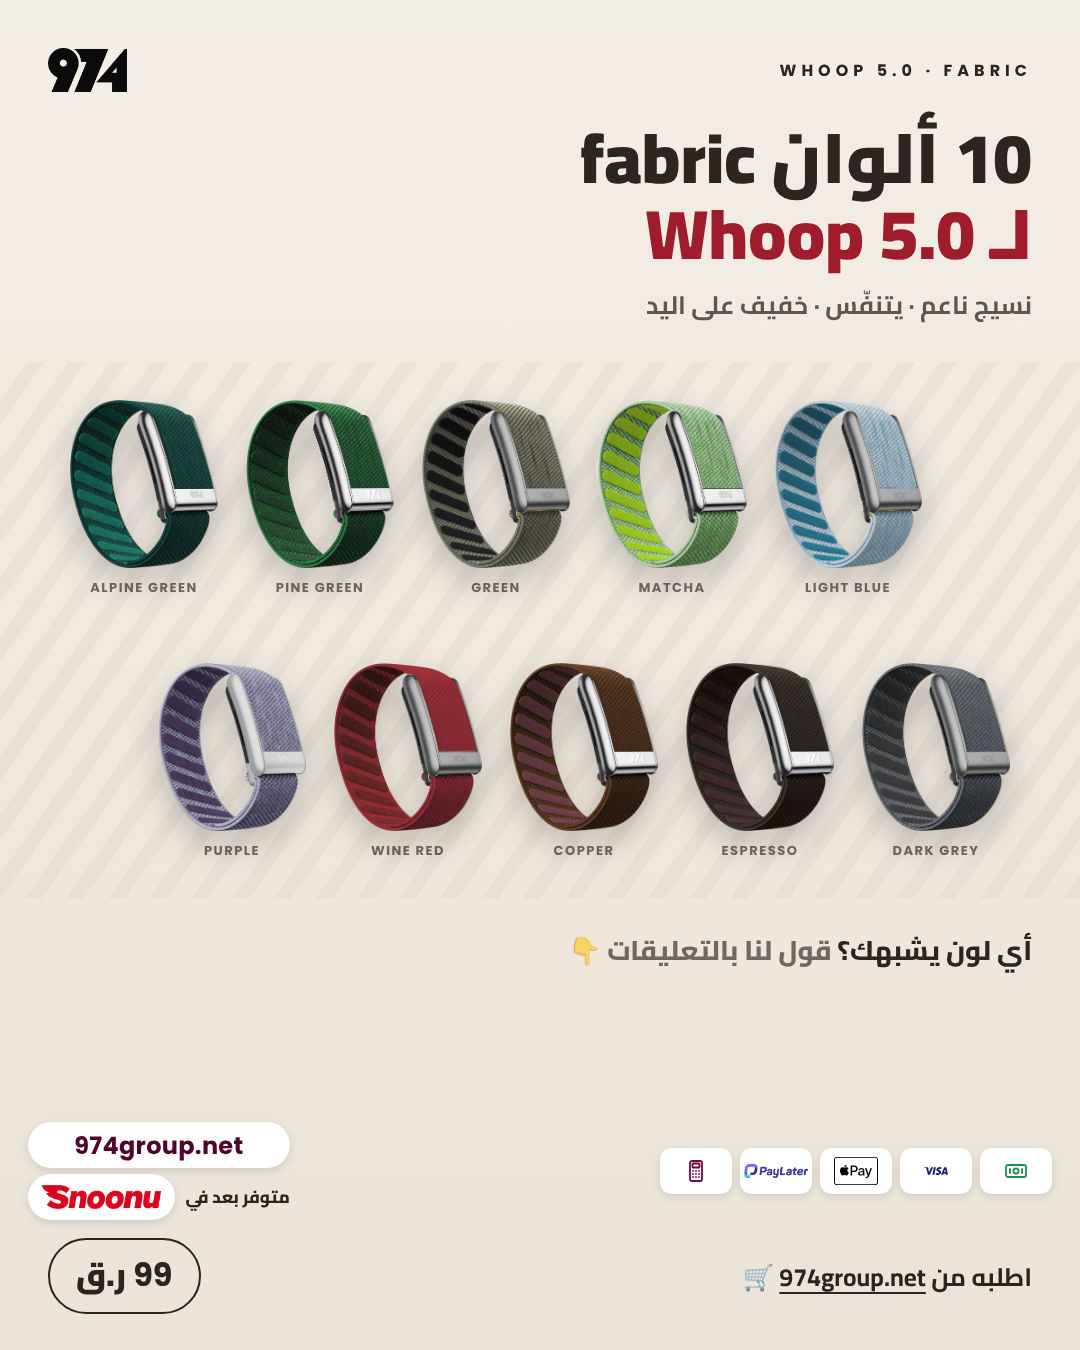
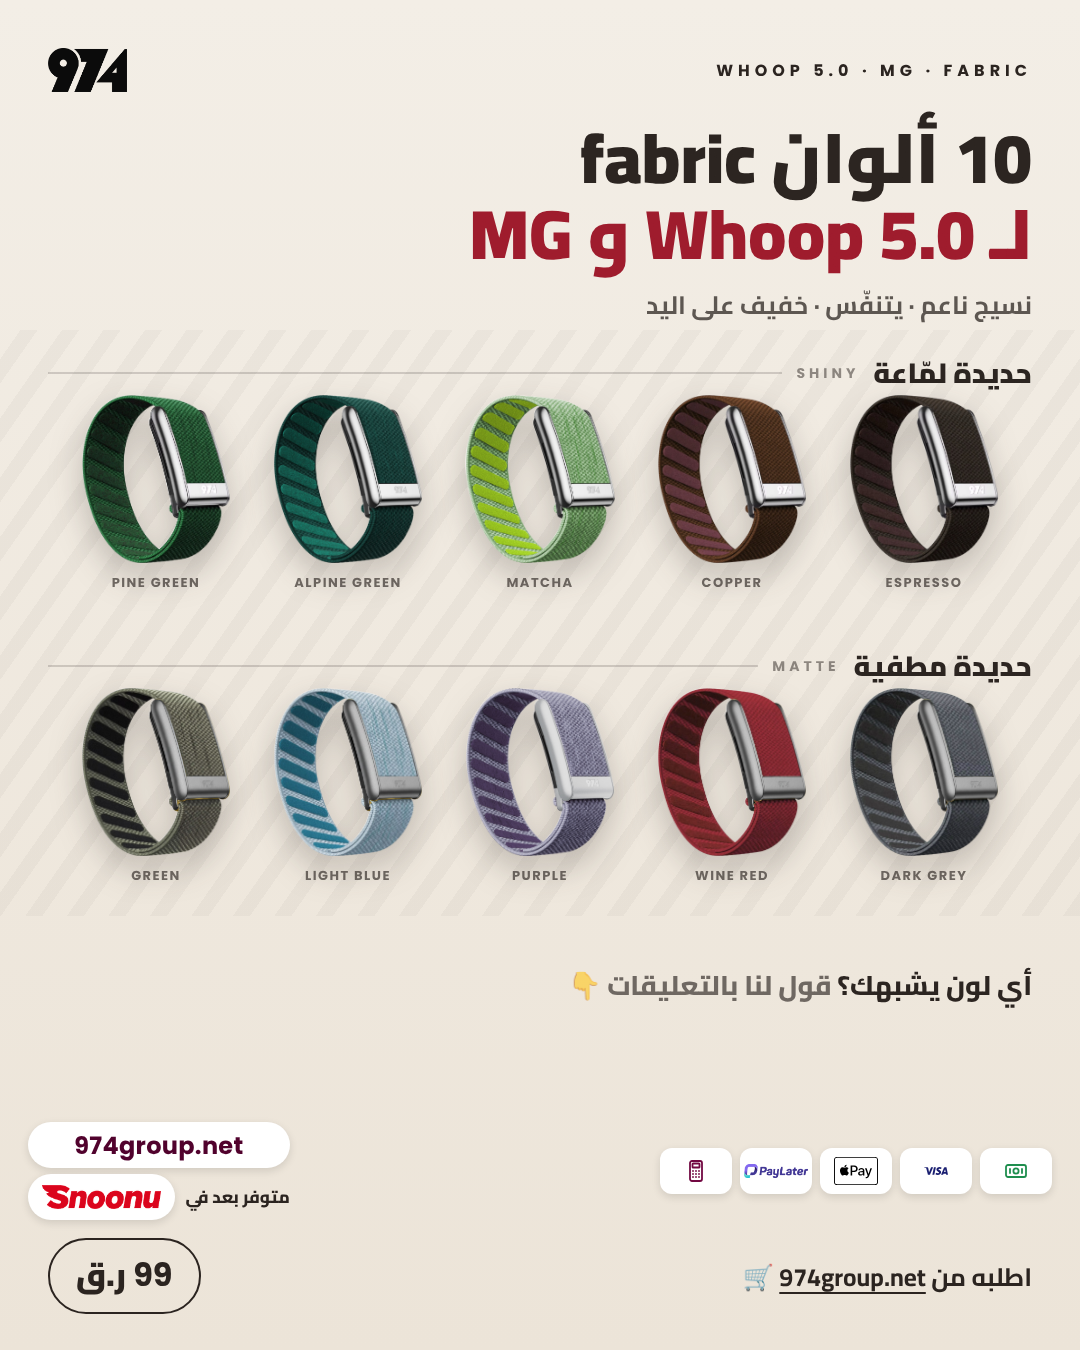
Whoop 5 fabric design: shiny vs matte buckle rows, 5.0 + MG
Claude-Session: https://claude.ai/code/session_01K6HDWNrArsGSJekW1VcEzV

diff --git a/posts/2026-11/best-sellers-3/out/974-w5fabric-story.html b/posts/2026-11/best-sellers-3/out/974-w5fabric-story.html
@@ -31,16 +31,17 @@ body{width:1080px;height:1920px;background:linear-gradient(180deg,#F3EEE6 0%,#EC
 .top{position:absolute;left:48px;right:48px;top:200px;display:flex;justify-content:space-between;align-items:center}
 .top img{height:44px} .bo{display:inline-block;margin-top:14px;font-weight:800;font-size:20px;border:1.5px dashed currentColor;border-radius:30px;padding:2px 16px 4px;opacity:.75} .top span{font-family:Poppins;font-weight:700;font-size:16px;letter-spacing:5px}
 .it{position:absolute;display:flex;flex-direction:column;align-items:center} .it img{filter:drop-shadow(0 14px 16px rgba(43,36,32,.25))}
+.rl{position:absolute;right:48px;left:48px;display:flex;align-items:center;gap:14px;direction:rtl} .rl b{font-weight:900;font-size:28px} .rl span{font-weight:700;font-size:14px;letter-spacing:4px;opacity:.5} .rl:after{content:'';flex:1;height:1.5px;background:rgba(43,36,32,.18)}
 .it i{font-style:normal;font-family:Poppins;font-weight:700;font-size:13px;letter-spacing:1.5px;margin-top:10px;opacity:.65;text-transform:uppercase;white-space:nowrap}</style></head><body>
 
-<div class="abs" style="left:0;right:0;top:600px;height:560px;background:repeating-linear-gradient(-55deg,rgba(43,36,32,.035) 0 14px,transparent 14px 34px)"></div>
+<div class="abs" style="left:0;right:0;top:550px;height:610px;background:repeating-linear-gradient(-55deg,rgba(43,36,32,.035) 0 14px,transparent 14px 34px)"></div>
 <div class="abs ar" style="right:48px;left:48px;top:300px">
- <div style="font-weight:900;font-size:78px;line-height:1.08">10 ألوان fabric<br><span style="color:#9E1B2C">لـ Whoop 5.0</span></div>
+ <div style="font-weight:900;font-size:78px;line-height:1.08">10 ألوان fabric<br><span style="color:#9E1B2C">لـ Whoop 5.0 و MG</span></div>
  <div style="font-weight:700;font-size:27px;margin-top:10px;opacity:.75">نسيج ناعم · يتنفّس · خفيف على اليد</div>
 </div>
-<div class="it" style="left:56px;top:640px;width:176px"><img src="file:///home/claude/974-social/products/whoop5-fabric/cut/alpine-green.png" style="height:180px"><i>Alpine Green</i></div><div class="it" style="left:232px;top:640px;width:176px"><img src="file:///home/claude/974-social/products/whoop5-fabric/cut/pine-green.png" style="height:180px"><i>Pine Green</i></div><div class="it" style="left:408px;top:640px;width:176px"><img src="file:///home/claude/974-social/products/whoop5-fabric/cut/green.png" style="height:180px"><i>Green</i></div><div class="it" style="left:584px;top:640px;width:176px"><img src="file:///home/claude/974-social/products/whoop5-fabric/cut/matcha.png" style="height:180px"><i>Matcha</i></div><div class="it" style="left:760px;top:640px;width:176px"><img src="file:///home/claude/974-social/products/whoop5-fabric/cut/light-blue.png" style="height:180px"><i>Light Blue</i></div><div class="it" style="left:144px;top:915px;width:176px"><img src="file:///home/claude/974-social/products/whoop5-fabric/cut/purple.png" style="height:180px"><i>Purple</i></div><div class="it" style="left:320px;top:915px;width:176px"><img src="file:///home/claude/974-social/products/whoop5-fabric/cut/wine-red.png" style="height:180px"><i>Wine Red</i></div><div class="it" style="left:496px;top:915px;width:176px"><img src="file:///home/claude/974-social/products/whoop5-fabric/cut/copper.png" style="height:180px"><i>Copper</i></div><div class="it" style="left:672px;top:915px;width:176px"><img src="file:///home/claude/974-social/products/whoop5-fabric/cut/espresso.png" style="height:180px"><i>Espresso</i></div><div class="it" style="left:848px;top:915px;width:176px"><img src="file:///home/claude/974-social/products/whoop5-fabric/cut/dark-grey.png" style="height:180px"><i>Dark Grey</i></div>
-<div class="abs ar" style="right:48px;left:48px;top:1280px;font-weight:800;font-size:30px">أي لون يشبهك؟ <span style="opacity:.65">قول لنا بالتعليقات 👇</span></div><div class="grain"></div>
-<div class="top"><img src="file:///home/claude/974-social/posts/2026-11/pilates-socks/src/logo-black.png"><span>WHOOP 5.0 · FABRIC</span></div>
+<div class="rl" style="top:572px"><b>حديدة لمّاعة</b><span class="en">SHINY</span></div><div class="it" style="left:60px;top:620px;width:192px"><img src="file:///home/claude/974-social/products/whoop5-fabric/cut/pine-green.png" style="height:180px"><i>Pine Green</i></div><div class="it" style="left:252px;top:620px;width:192px"><img src="file:///home/claude/974-social/products/whoop5-fabric/cut/alpine-green.png" style="height:180px"><i>Alpine Green</i></div><div class="it" style="left:444px;top:620px;width:192px"><img src="file:///home/claude/974-social/products/whoop5-fabric/cut/matcha.png" style="height:180px"><i>Matcha</i></div><div class="it" style="left:636px;top:620px;width:192px"><img src="file:///home/claude/974-social/products/whoop5-fabric/cut/copper.png" style="height:180px"><i>Copper</i></div><div class="it" style="left:828px;top:620px;width:192px"><img src="file:///home/claude/974-social/products/whoop5-fabric/cut/espresso.png" style="height:180px"><i>Espresso</i></div><div class="rl" style="top:877px"><b>حديدة مطفية</b><span class="en">MATTE</span></div><div class="it" style="left:60px;top:925px;width:192px"><img src="file:///home/claude/974-social/products/whoop5-fabric/cut/green.png" style="height:180px"><i>Green</i></div><div class="it" style="left:252px;top:925px;width:192px"><img src="file:///home/claude/974-social/products/whoop5-fabric/cut/light-blue.png" style="height:180px"><i>Light Blue</i></div><div class="it" style="left:444px;top:925px;width:192px"><img src="file:///home/claude/974-social/products/whoop5-fabric/cut/purple.png" style="height:180px"><i>Purple</i></div><div class="it" style="left:636px;top:925px;width:192px"><img src="file:///home/claude/974-social/products/whoop5-fabric/cut/wine-red.png" style="height:180px"><i>Wine Red</i></div><div class="it" style="left:828px;top:925px;width:192px"><img src="file:///home/claude/974-social/products/whoop5-fabric/cut/dark-grey.png" style="height:180px"><i>Dark Grey</i></div>
+<div class="abs ar" style="right:48px;left:48px;top:1310px;font-weight:800;font-size:30px">أي لون يشبهك؟ <span style="opacity:.65">قول لنا بالتعليقات 👇</span></div><div class="grain"></div>
+<div class="top"><img src="file:///home/claude/974-social/posts/2026-11/pilates-socks/src/logo-black.png"><span>WHOOP 5.0 · MG · FABRIC</span></div>
 <div class="pf"><div class="payfoot"><div class="pills">
 <div class="ch"><div class="lg"><svg viewBox="0 0 24 24" style="height:54px" fill="none" stroke="#1E8E4E" stroke-width="1.8" stroke-linecap="round" stroke-linejoin="round"><rect x="2" y="6" width="20" height="12" rx="2"/><circle cx="12" cy="12" r="2.6"/><path d="M6 10v4M18 10v4"/></svg></div><i>كاش</i></div>
 <div class="ch"><div class="lg"><svg fill="#1A1F71" style="height:120px;width:150px" xmlns="http://www.w3.org/2000/svg" viewBox="0 0 24 24"><path d="M9.112 8.262 5.97 15.758H3.92L2.374 9.775c-.094-.368-.175-.503-.461-.658C1.447 8.864.677 8.627 0 8.479l.046-.217h3.3a.904.904 0 0 1 .894.764l.817 4.338 2.018-5.102zm8.033 5.049c.008-1.979-2.736-2.088-2.717-2.972.006-.269.262-.555.822-.628a3.66 3.66 0 0 1 1.913.336l.34-1.59a5.2 5.2 0 0 0-1.814-.333c-1.917 0-3.266 1.02-3.278 2.479-.012 1.079.963 1.68 1.698 2.04.756.367 1.01.603 1.006.931-.005.504-.602.725-1.16.734-.975.015-1.54-.263-1.992-.473l-.351 1.642c.453.208 1.289.39 2.156.398 2.037 0 3.37-1.006 3.377-2.564m5.061 2.447H24l-1.565-7.496h-1.656a.88.88 0 0 0-.826.55l-2.909 6.946h2.036l.405-1.12h2.488zm-2.163-2.656 1.02-2.815.588 2.815zm-8.16-4.84-1.603 7.496H8.34l1.605-7.496z"/></svg></div><i>Visa</i></div>

diff --git a/posts/2026-11/best-sellers-3/out/974-w5fabric-post.html b/posts/2026-11/best-sellers-3/out/974-w5fabric-post.html
@@ -31,16 +31,17 @@ body{width:1080px;height:1350px;background:linear-gradient(180deg,#F3EEE6 0%,#EC
 .top{position:absolute;left:48px;right:48px;top:48px;display:flex;justify-content:space-between;align-items:center}
 .top img{height:44px} .bo{display:inline-block;margin-top:14px;font-weight:800;font-size:20px;border:1.5px dashed currentColor;border-radius:30px;padding:2px 16px 4px;opacity:.75} .top span{font-family:Poppins;font-weight:700;font-size:16px;letter-spacing:5px}
 .it{position:absolute;display:flex;flex-direction:column;align-items:center} .it img{filter:drop-shadow(0 14px 16px rgba(43,36,32,.25))}
+.rl{position:absolute;right:48px;left:48px;display:flex;align-items:center;gap:14px;direction:rtl} .rl b{font-weight:900;font-size:28px} .rl span{font-weight:700;font-size:14px;letter-spacing:4px;opacity:.5} .rl:after{content:'';flex:1;height:1.5px;background:rgba(43,36,32,.18)}
 .it i{font-style:normal;font-family:Poppins;font-weight:700;font-size:13px;letter-spacing:1.5px;margin-top:10px;opacity:.65;text-transform:uppercase;white-space:nowrap}</style></head><body>
 
-<div class="abs" style="left:0;right:0;top:362px;height:536px;background:repeating-linear-gradient(-55deg,rgba(43,36,32,.035) 0 14px,transparent 14px 34px)"></div>
+<div class="abs" style="left:0;right:0;top:330px;height:586px;background:repeating-linear-gradient(-55deg,rgba(43,36,32,.035) 0 14px,transparent 14px 34px)"></div>
 <div class="abs ar" style="right:48px;left:48px;top:120px">
- <div style="font-weight:900;font-size:70px;line-height:1.08">10 ألوان fabric<br><span style="color:#9E1B2C">لـ Whoop 5.0</span></div>
+ <div style="font-weight:900;font-size:70px;line-height:1.08">10 ألوان fabric<br><span style="color:#9E1B2C">لـ Whoop 5.0 و MG</span></div>
  <div style="font-weight:700;font-size:25px;margin-top:10px;opacity:.75">نسيج ناعم · يتنفّس · خفيف على اليد</div>
 </div>
-<div class="it" style="left:56px;top:400px;width:176px"><img src="file:///home/claude/974-social/products/whoop5-fabric/cut/alpine-green.png" style="height:168px"><i>Alpine Green</i></div><div class="it" style="left:232px;top:400px;width:176px"><img src="file:///home/claude/974-social/products/whoop5-fabric/cut/pine-green.png" style="height:168px"><i>Pine Green</i></div><div class="it" style="left:408px;top:400px;width:176px"><img src="file:///home/claude/974-social/products/whoop5-fabric/cut/green.png" style="height:168px"><i>Green</i></div><div class="it" style="left:584px;top:400px;width:176px"><img src="file:///home/claude/974-social/products/whoop5-fabric/cut/matcha.png" style="height:168px"><i>Matcha</i></div><div class="it" style="left:760px;top:400px;width:176px"><img src="file:///home/claude/974-social/products/whoop5-fabric/cut/light-blue.png" style="height:168px"><i>Light Blue</i></div><div class="it" style="left:144px;top:663px;width:176px"><img src="file:///home/claude/974-social/products/whoop5-fabric/cut/purple.png" style="height:168px"><i>Purple</i></div><div class="it" style="left:320px;top:663px;width:176px"><img src="file:///home/claude/974-social/products/whoop5-fabric/cut/wine-red.png" style="height:168px"><i>Wine Red</i></div><div class="it" style="left:496px;top:663px;width:176px"><img src="file:///home/claude/974-social/products/whoop5-fabric/cut/copper.png" style="height:168px"><i>Copper</i></div><div class="it" style="left:672px;top:663px;width:176px"><img src="file:///home/claude/974-social/products/whoop5-fabric/cut/espresso.png" style="height:168px"><i>Espresso</i></div><div class="it" style="left:848px;top:663px;width:176px"><img src="file:///home/claude/974-social/products/whoop5-fabric/cut/dark-grey.png" style="height:168px"><i>Dark Grey</i></div>
-<div class="abs ar" style="right:48px;left:48px;top:925px;font-weight:800;font-size:27px">أي لون يشبهك؟ <span style="opacity:.65">قول لنا بالتعليقات 👇</span></div><div class="grain"></div>
-<div class="top"><img src="file:///home/claude/974-social/posts/2026-11/pilates-socks/src/logo-black.png"><span>WHOOP 5.0 · FABRIC</span></div>
+<div class="rl" style="top:347px"><b>حديدة لمّاعة</b><span class="en">SHINY</span></div><div class="it" style="left:60px;top:395px;width:192px"><img src="file:///home/claude/974-social/products/whoop5-fabric/cut/pine-green.png" style="height:168px"><i>Pine Green</i></div><div class="it" style="left:252px;top:395px;width:192px"><img src="file:///home/claude/974-social/products/whoop5-fabric/cut/alpine-green.png" style="height:168px"><i>Alpine Green</i></div><div class="it" style="left:444px;top:395px;width:192px"><img src="file:///home/claude/974-social/products/whoop5-fabric/cut/matcha.png" style="height:168px"><i>Matcha</i></div><div class="it" style="left:636px;top:395px;width:192px"><img src="file:///home/claude/974-social/products/whoop5-fabric/cut/copper.png" style="height:168px"><i>Copper</i></div><div class="it" style="left:828px;top:395px;width:192px"><img src="file:///home/claude/974-social/products/whoop5-fabric/cut/espresso.png" style="height:168px"><i>Espresso</i></div><div class="rl" style="top:640px"><b>حديدة مطفية</b><span class="en">MATTE</span></div><div class="it" style="left:60px;top:688px;width:192px"><img src="file:///home/claude/974-social/products/whoop5-fabric/cut/green.png" style="height:168px"><i>Green</i></div><div class="it" style="left:252px;top:688px;width:192px"><img src="file:///home/claude/974-social/products/whoop5-fabric/cut/light-blue.png" style="height:168px"><i>Light Blue</i></div><div class="it" style="left:444px;top:688px;width:192px"><img src="file:///home/claude/974-social/products/whoop5-fabric/cut/purple.png" style="height:168px"><i>Purple</i></div><div class="it" style="left:636px;top:688px;width:192px"><img src="file:///home/claude/974-social/products/whoop5-fabric/cut/wine-red.png" style="height:168px"><i>Wine Red</i></div><div class="it" style="left:828px;top:688px;width:192px"><img src="file:///home/claude/974-social/products/whoop5-fabric/cut/dark-grey.png" style="height:168px"><i>Dark Grey</i></div>
+<div class="abs ar" style="right:48px;left:48px;top:960px;font-weight:800;font-size:27px">أي لون يشبهك؟ <span style="opacity:.65">قول لنا بالتعليقات 👇</span></div><div class="grain"></div>
+<div class="top"><img src="file:///home/claude/974-social/posts/2026-11/pilates-socks/src/logo-black.png"><span>WHOOP 5.0 · MG · FABRIC</span></div>
 <div class="pf"><div class="payfoot"><div class="pills">
 <div class="ch"><div class="lg"><svg viewBox="0 0 24 24" style="height:54px" fill="none" stroke="#1E8E4E" stroke-width="1.8" stroke-linecap="round" stroke-linejoin="round"><rect x="2" y="6" width="20" height="12" rx="2"/><circle cx="12" cy="12" r="2.6"/><path d="M6 10v4M18 10v4"/></svg></div><i>كاش</i></div>
 <div class="ch"><div class="lg"><svg fill="#1A1F71" style="height:120px;width:150px" xmlns="http://www.w3.org/2000/svg" viewBox="0 0 24 24"><path d="M9.112 8.262 5.97 15.758H3.92L2.374 9.775c-.094-.368-.175-.503-.461-.658C1.447 8.864.677 8.627 0 8.479l.046-.217h3.3a.904.904 0 0 1 .894.764l.817 4.338 2.018-5.102zm8.033 5.049c.008-1.979-2.736-2.088-2.717-2.972.006-.269.262-.555.822-.628a3.66 3.66 0 0 1 1.913.336l.34-1.59a5.2 5.2 0 0 0-1.814-.333c-1.917 0-3.266 1.02-3.278 2.479-.012 1.079.963 1.68 1.698 2.04.756.367 1.01.603 1.006.931-.005.504-.602.725-1.16.734-.975.015-1.54-.263-1.992-.473l-.351 1.642c.453.208 1.289.39 2.156.398 2.037 0 3.37-1.006 3.377-2.564m5.061 2.447H24l-1.565-7.496h-1.656a.88.88 0 0 0-.826.55l-2.909 6.946h2.036l.405-1.12h2.488zm-2.163-2.656 1.02-2.815.588 2.815zm-8.16-4.84-1.603 7.496H8.34l1.605-7.496z"/></svg></div><i>Visa</i></div>

diff --git a/posts/2026-11/best-sellers-3/gen.py b/posts/2026-11/best-sellers-3/gen.py
@@ -87,28 +87,30 @@ def cirqa_sil(story=False):
     return page(H,'radial-gradient(120% 90% at 50% 40%,#23262B 0%,#141518 100%)','#FFFFFF',body,story,LW,'GARMIN CIRQA · SILICONE',99,'علّق <em>«قارمن»</em> ونرسل لك الرابط 📩','')
 
 # ---------- C: Whoop 5 fabric (staggered line-up) ----------
-C_COL=[('alpine-green','Alpine Green'),('pine-green','Pine Green'),('green','Green'),('matcha','Matcha'),('light-blue','Light Blue'),
-       ('purple','Purple'),('wine-red','Wine Red'),('copper','Copper'),('espresso','Espresso'),('dark-grey','Dark Grey')]
+C_ROWS=[('حديدة لمّاعة','SHINY',[('pine-green','Pine Green'),('alpine-green','Alpine Green'),('matcha','Matcha'),('copper','Copper'),('espresso','Espresso')]),
+        ('حديدة مطفية','MATTE',[('green','Green'),('light-blue','Light Blue'),('purple','Purple'),('wine-red','Wine Red'),('dark-grey','Dark Grey')])]
 def w5fabric(story=False):
     o=150 if story else 0; H=1920 if story else 1350; INK='#2B2420'; C=P+'whoop5-fabric/cut/'
-    bh=168 if not story else 180; cw=176
+    bh=168 if not story else 180; cw=192
     rows=''
-    for r in range(2):
-        items=C_COL[r*5:(r+1)*5]; x0=(1080-cw*5)//2+(cw//2 if r else 0)-(cw//4)
-        top=o+(490 if story else 400)+r*(bh+95)
+    for r,(lab,en,items) in enumerate(C_ROWS):
+        top=o+(470 if story else 395)+r*(bh+125)
+        x0=(1080-cw*5)//2
+        rows+=f'<div class="rl" style="top:{top-48}px"><b>{lab}</b><span class="en">{en}</span></div>'
         for i,(f,name) in enumerate(items):
             rows+=f'<div class="it" style="left:{x0+i*cw}px;top:{top}px;width:{cw}px"><img src="file://{C}{f}.png" style="height:{bh}px"><i>{name}</i></div>'
     body=f'''
-<div class="abs" style="left:0;right:0;top:{o+(450 if story else 362)}px;height:{2*bh+200}px;background:repeating-linear-gradient(-55deg,rgba(43,36,32,.035) 0 14px,transparent 14px 34px)"></div>
+<div class="abs" style="left:0;right:0;top:{o+(400 if story else 330)}px;height:{2*bh+250}px;background:repeating-linear-gradient(-55deg,rgba(43,36,32,.035) 0 14px,transparent 14px 34px)"></div>
 <div class="abs ar" style="right:48px;left:48px;top:{o+(150 if story else 120)}px">
- <div style="font-weight:900;font-size:{78 if story else 70}px;line-height:1.08">10 ألوان fabric<br><span style="color:#9E1B2C">لـ Whoop 5.0</span></div>
+ <div style="font-weight:900;font-size:{78 if story else 70}px;line-height:1.08">10 ألوان fabric<br><span style="color:#9E1B2C">لـ Whoop 5.0 و MG</span></div>
  <div style="font-weight:700;font-size:{27 if story else 25}px;margin-top:10px;opacity:.75">نسيج ناعم · يتنفّس · خفيف على اليد</div>
 </div>
 {rows}
-<div class="abs ar" style="right:48px;left:48px;top:{o+(1130 if story else 925)}px;font-weight:800;font-size:{30 if story else 27}px">أي لون يشبهك؟ <span style="opacity:.65">قول لنا بالتعليقات 👇</span></div>'''
+<div class="abs ar" style="right:48px;left:48px;top:{o+(1160 if story else 960)}px;font-weight:800;font-size:{30 if story else 27}px">أي لون يشبهك؟ <span style="opacity:.65">قول لنا بالتعليقات 👇</span></div>'''
     extra='''.it{position:absolute;display:flex;flex-direction:column;align-items:center} .it img{filter:drop-shadow(0 14px 16px rgba(43,36,32,.25))}
+.rl{position:absolute;right:48px;left:48px;display:flex;align-items:center;gap:14px;direction:rtl} .rl b{font-weight:900;font-size:28px} .rl span{font-weight:700;font-size:14px;letter-spacing:4px;opacity:.5} .rl:after{content:'';flex:1;height:1.5px;background:rgba(43,36,32,.18)}
 .it i{font-style:normal;font-family:Poppins;font-weight:700;font-size:13px;letter-spacing:1.5px;margin-top:10px;opacity:.65;text-transform:uppercase;white-space:nowrap}'''
-    return page(H,'linear-gradient(180deg,#F3EEE6 0%,#ECE4D8 100%)',INK,body,story,LB,'WHOOP 5.0 · FABRIC',99,'اطلبه من <em>974group.net</em> 🛒',extra)
+    return page(H,'linear-gradient(180deg,#F3EEE6 0%,#ECE4D8 100%)',INK,body,story,LB,'WHOOP 5.0 · MG · FABRIC',99,'اطلبه من <em>974group.net</em> 🛒',extra)
 
 def shot(n,html,H):
     os.makedirs('out',exist_ok=True); open(f'out/{n}.html','w').write(html)
